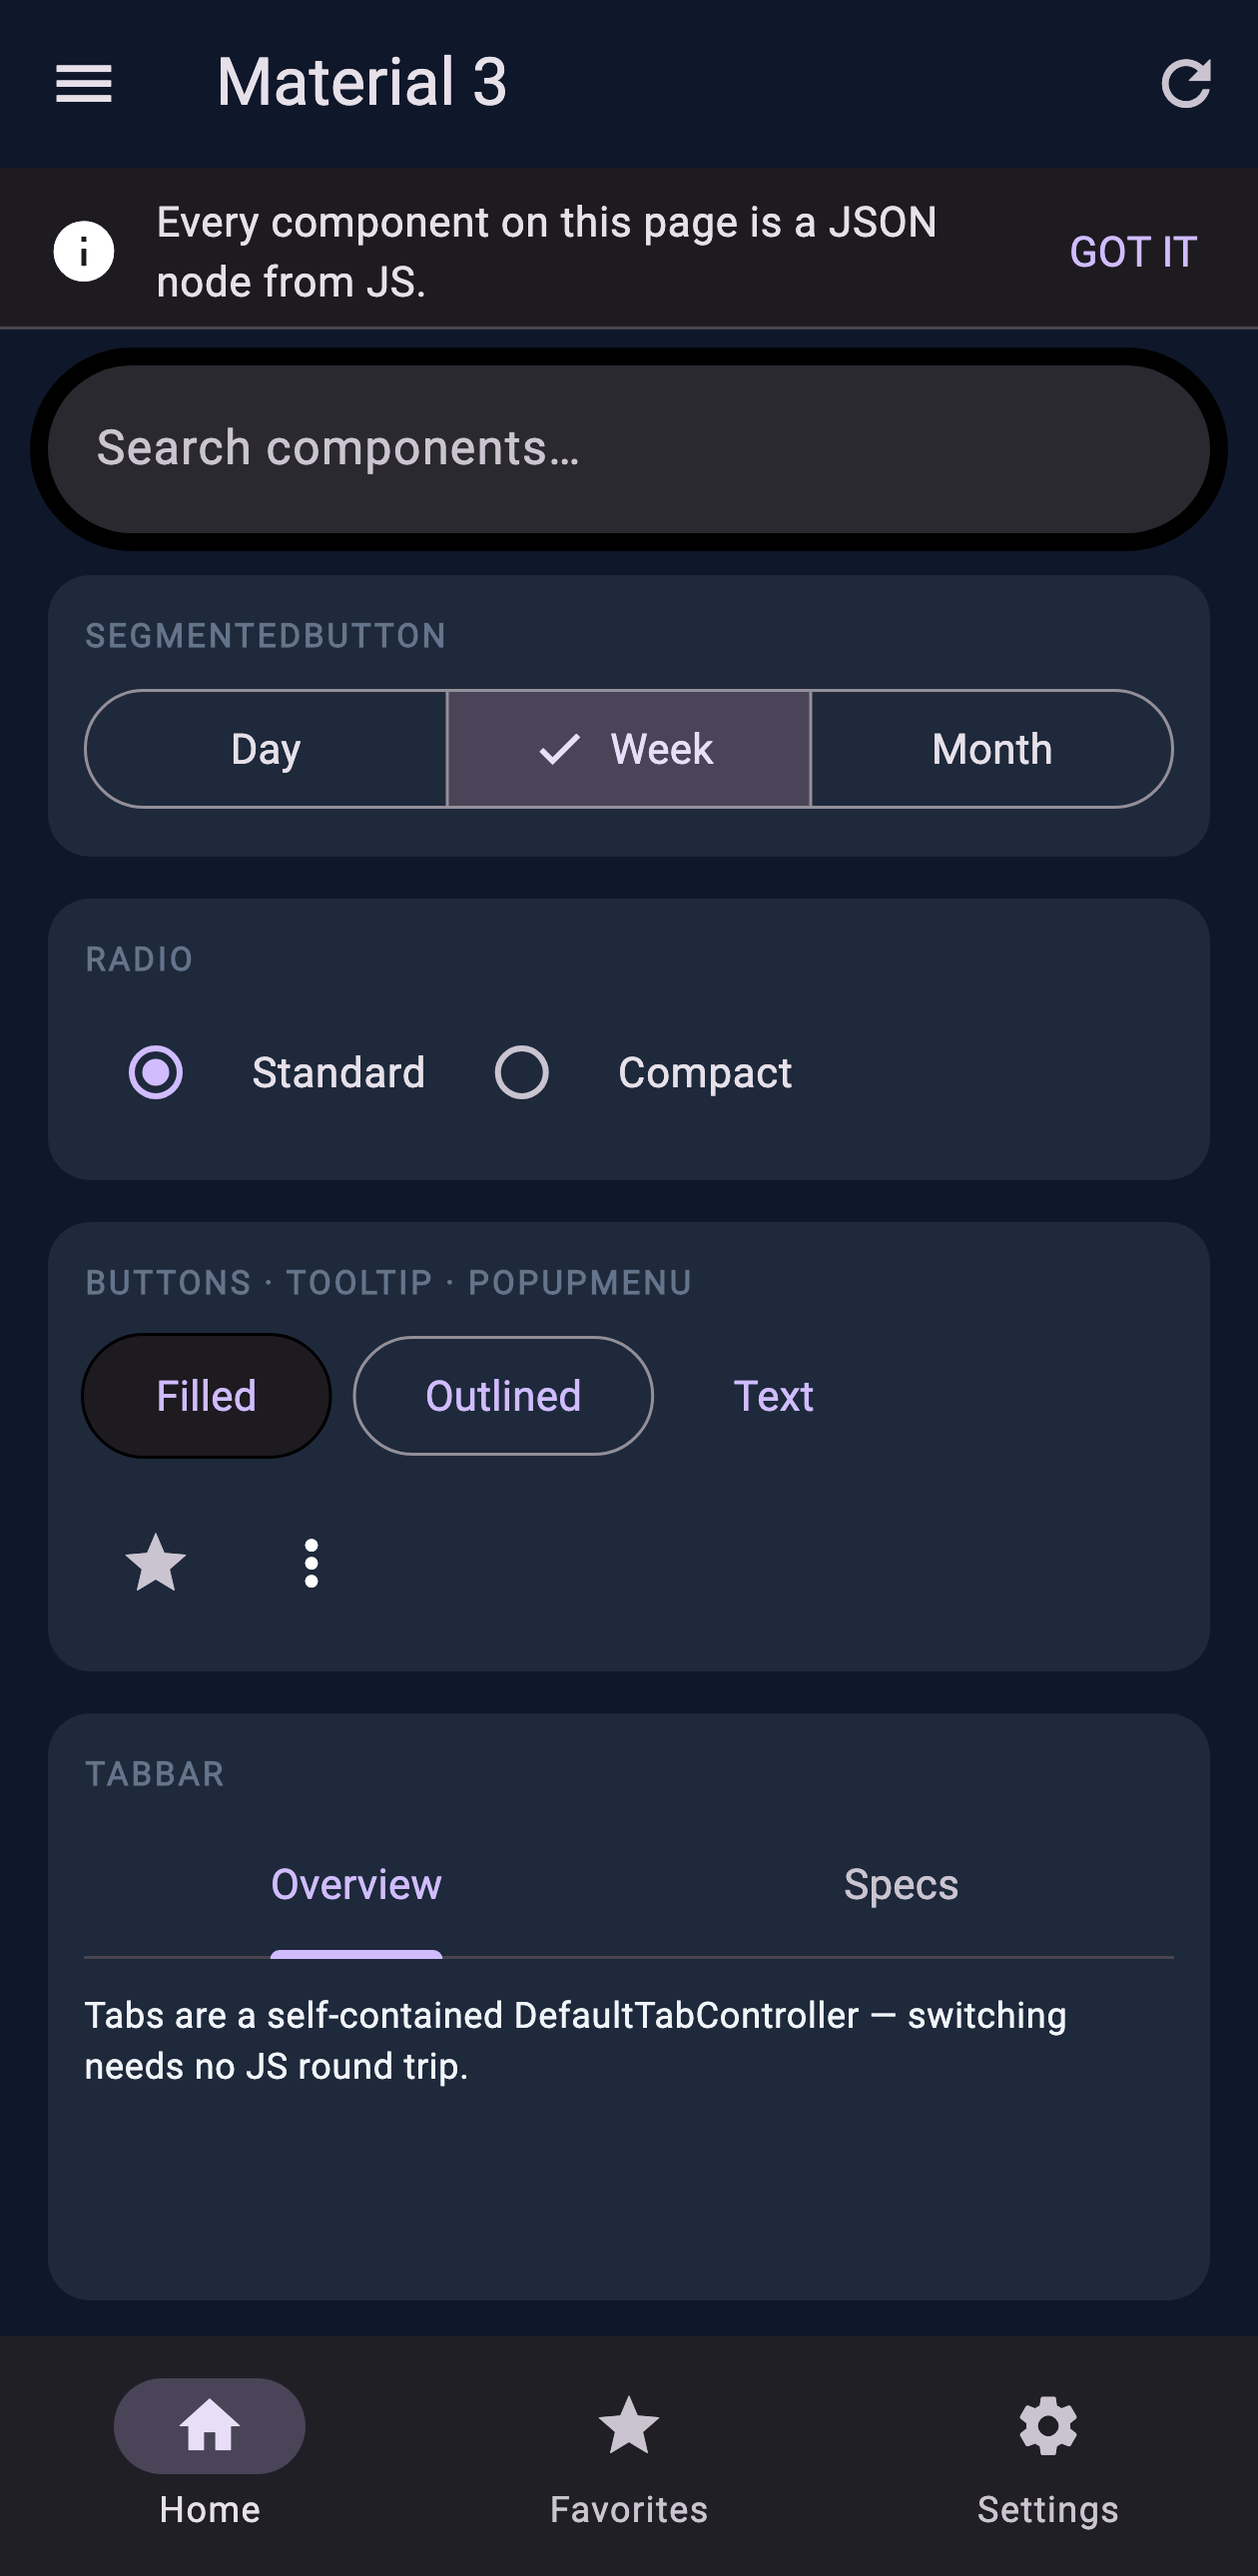
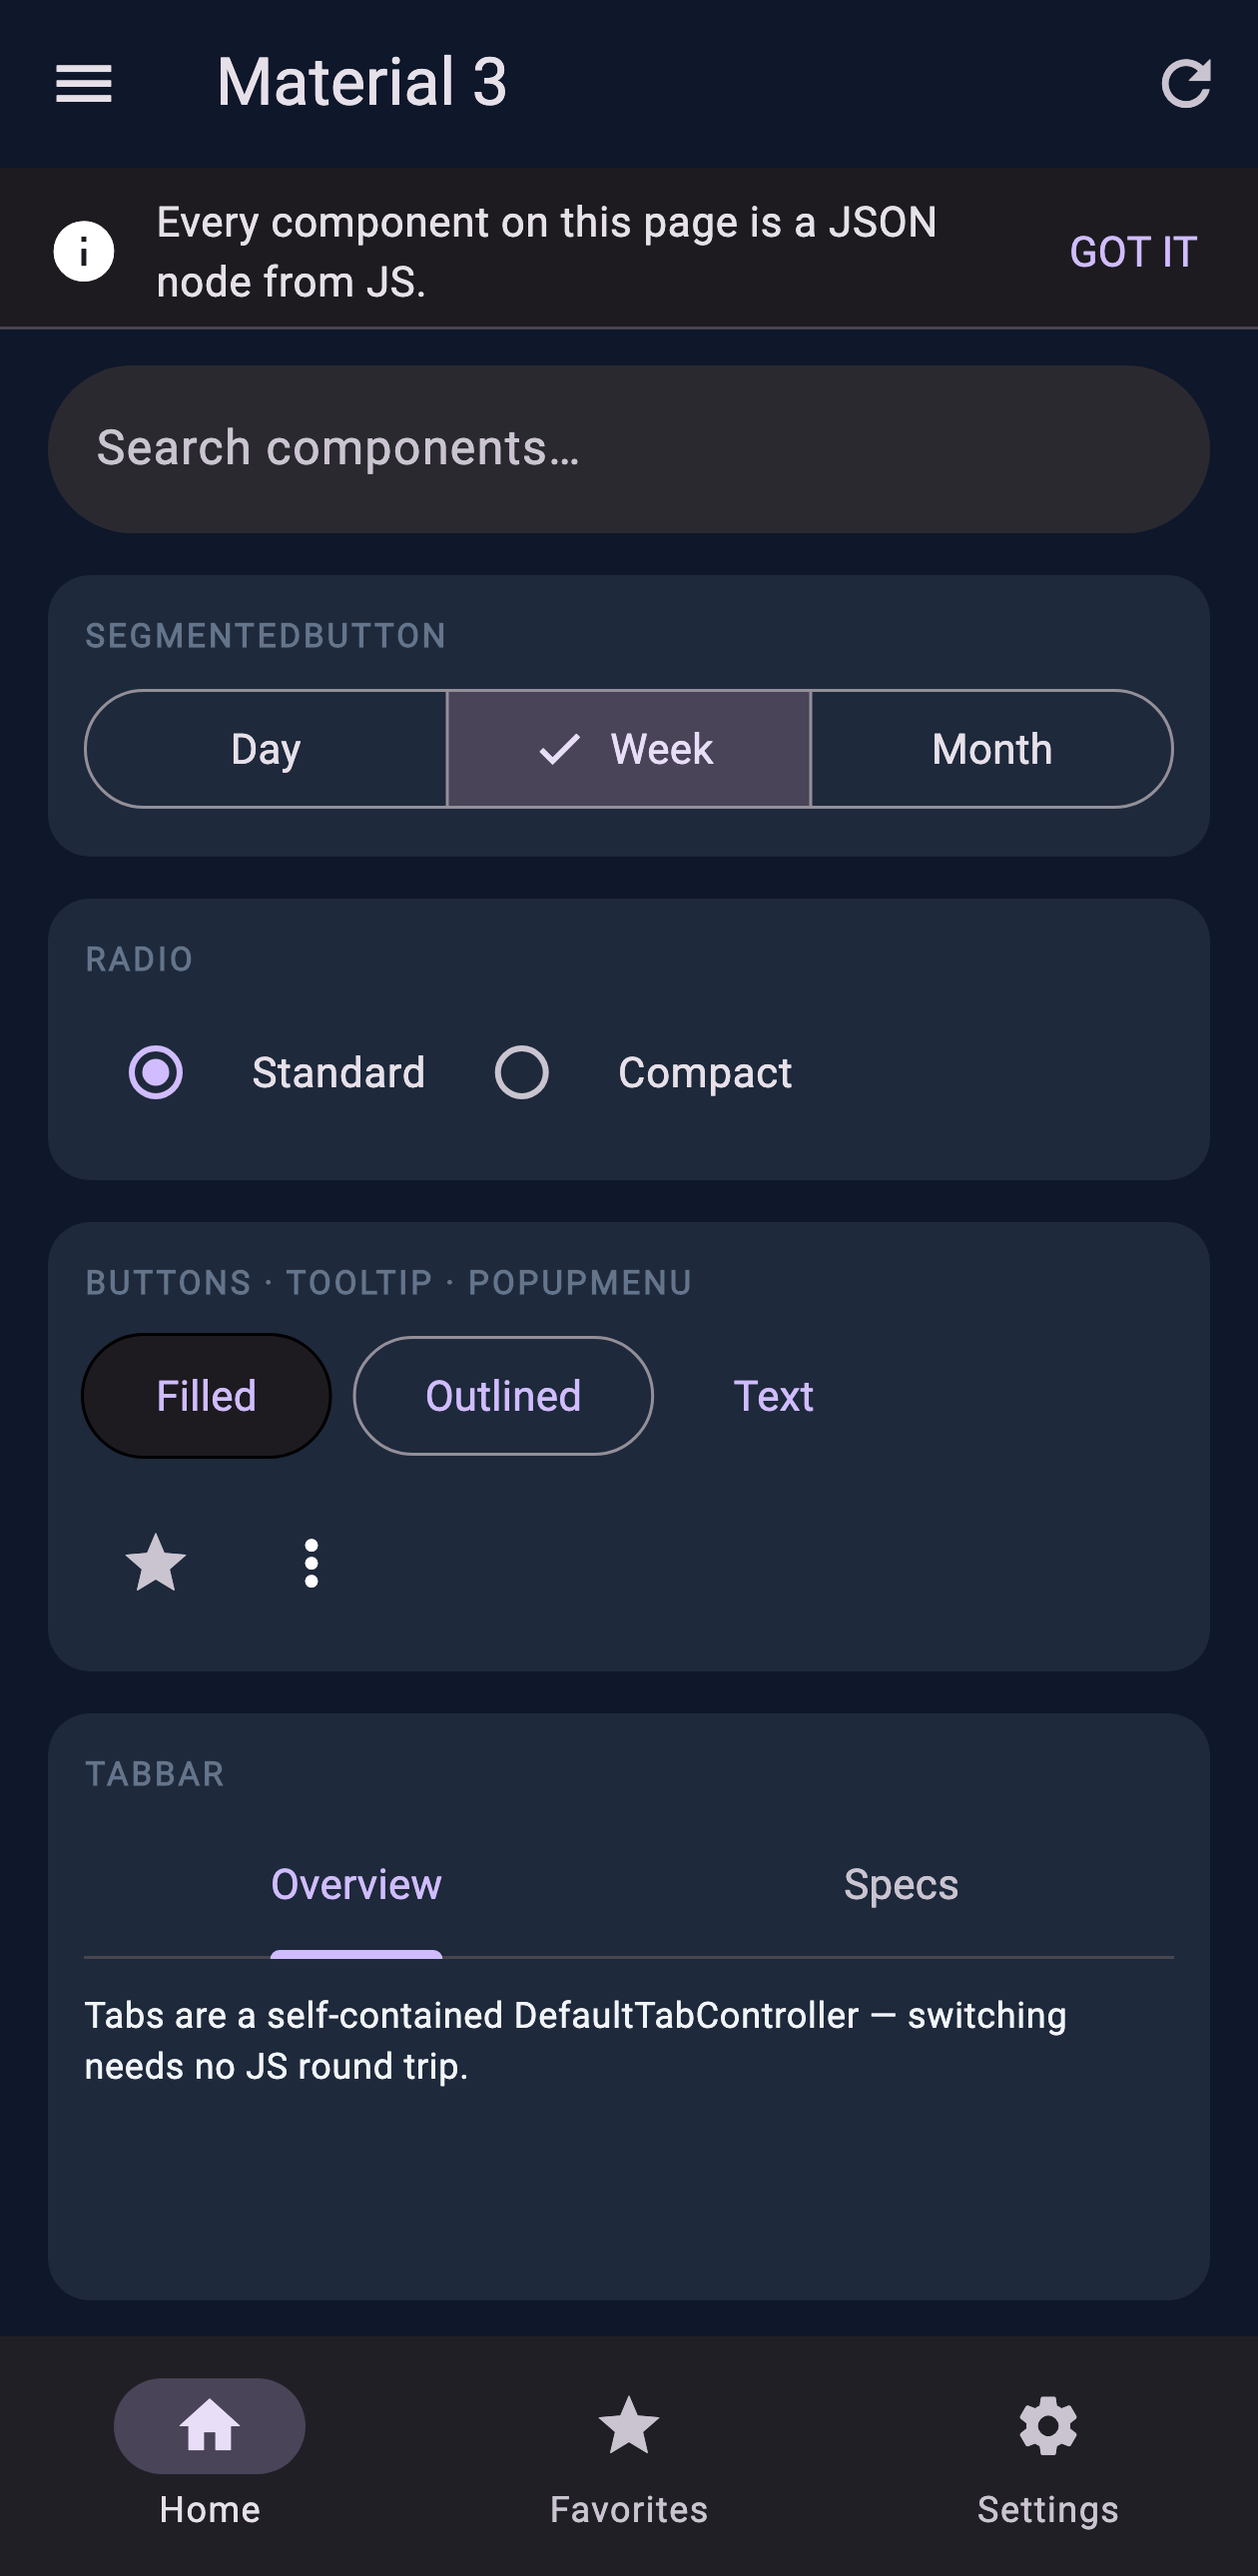
searchBar: drop default elevation shadow
M3 SearchBar defaults to elevation 6, which paints a black shadow ring
on dark themes; JSON surfaces already sit on their own cards.

Changed region(s): [[0.0, 0.124, 0.9595, 0.2171], [0.9595, 0.155, 0.9905, 0.186]]

diff --git a/lib/src/renderer/nodes/js_m3_nodes.dart b/lib/src/renderer/nodes/js_m3_nodes.dart
@@ -177,6 +177,9 @@ extension on JsonWidgetRenderer {
   Widget _searchBarNode(Map<String, dynamic> m) {
     return SearchBar(
       hintText: m['hint'] as String?,
+      // The M3 default elevation (6) paints a black shadow ring on dark
+      // themes; the JSON surfaces are already lifted by their own cards.
+      elevation: const WidgetStatePropertyAll(0),
       onChanged: (text) {
         final action = m['onChange'] ?? m['onChanged'];
         if (action != null) {
